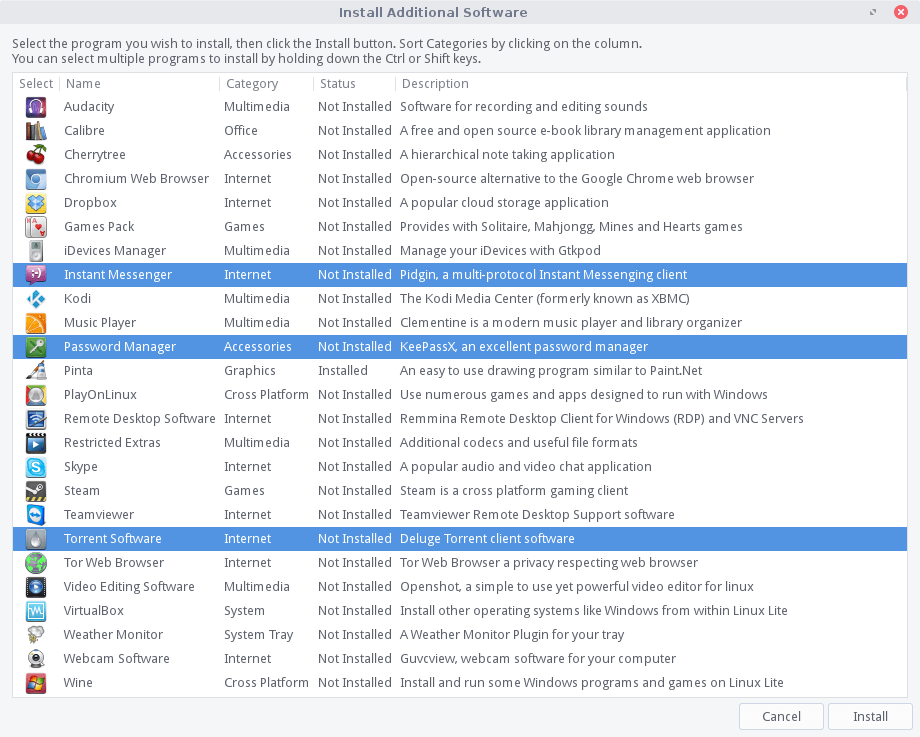
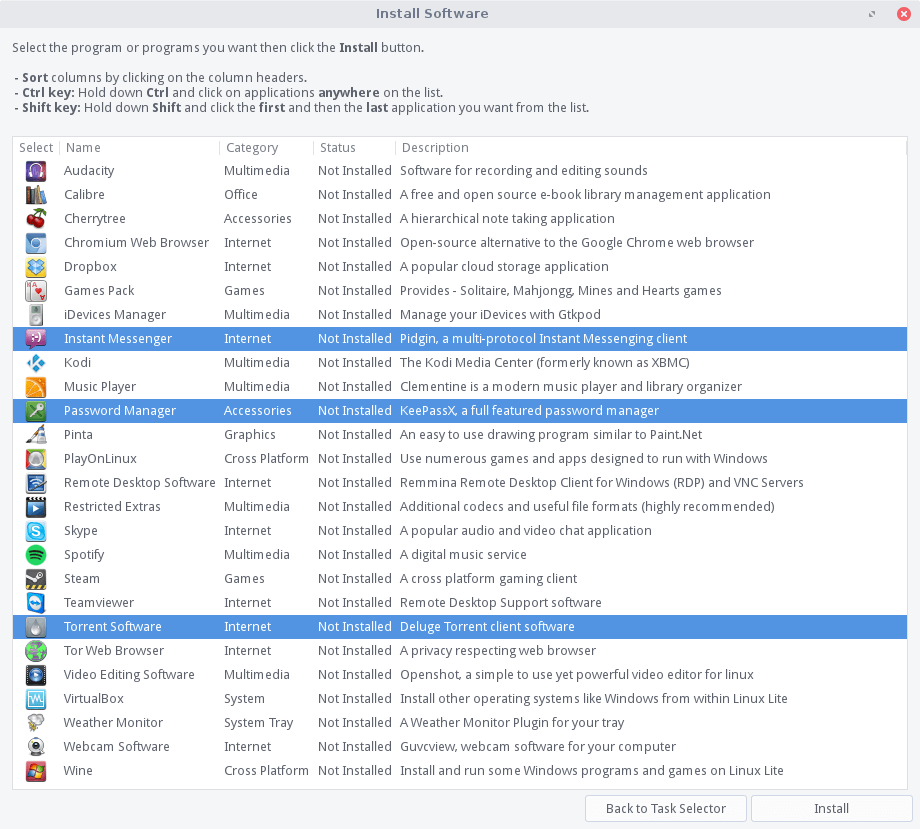
update Lite Software

Changed region(s): [[0.0, 0.0, 1.0, 0.9986], [0.9739, 0.0, 1.0, 0.0312], [0.5783, 0.0312, 0.6087, 0.0624]]

diff --git a/usr/share/doc/litemanual/software.html b/usr/share/doc/litemanual/software.html
@@ -260,7 +260,7 @@ i    {font-style: italic;}
 					<p>Enter your password and click <b>OK</b>.</p>
 					<p><img src="images/software/litesoftware/ls-password.png" /></p>
 
-					<p>Next you will be shown the <b>Update Sources</b> window, always answer <b>Yes</b>.</p>
+					<p>Next you will be shown the <b>Update Software Sources</b> window, click <b>Yes</b> to continue.</p>
 					<p><img src="images/software/litesoftware/update_sources.png" /></p>
 
 					<p>Sources will be updated:</p>
@@ -271,7 +271,7 @@ i    {font-style: italic;}
 
 					<p>Next, you'll see the following window pop up. Select each application by holding down the <b>Ctrl</b> key. You may
 					choose and install more than one package at a time if you like. In this example we'll choose to install, <b>Instant Messenger,
-					Password Manager</b> and <b>Torrent Software</b>.</p>
+					Password Manager</b> and <b>Torrent Software</b>. Next, click the <b>Install</b> button.</p>
 					<p><img src="images/software/litesoftware/install_add_sftwr-02.png" /></p>
 
 					<p>In the next dialog, you'll be shown which applications you've selected to install. Click <b>Yes</b> when ready.</p>
@@ -286,9 +286,9 @@ i    {font-style: italic;}
 					<p>When the install is complete, you will get a confirmation like the following.</p>
 					<p><img src="images/software/litesoftware/install-complete.png" /></p>
 
-					<p>The <b>Lite Software</b> window will reappear at the end in case you want to perform another task. If you have finished,
-					select <b>Exit</b> and click <b>OK</b> or simply click on <b>Quit</b>.</p>
-					<p><img src="images/software/litesoftware/lite-software-exit.png" /></p>
+					<p>The <b>Lite Software</b> window will reappear at the end in case you want to perform another task. If you have finished, 
+					click <b>Quit</b>.</p>
+					<p><img src="images/software/litesoftware/lite-software-select.png" /></p>
 
 					<p><a href="#top">Top of page</a></p>
 
@@ -309,9 +309,9 @@ i    {font-style: italic;}
 					<p>Once the sources have been updated, the following window will appear, select <b>Remove Software</b> and click <b>OK</b>.</p>
 					<p><img src="images/software/litesoftware/lite-software-select-remove.png" /></p>
 
-					<p>Next, you'll see the following window pop up. Select software to remove by placing a check mark in the box next to it. You may
-					choose and remove more than one package at a time if you like. In this example we'll choose to remove, <b>Instant Messenger</b>,
-					<b>Password Manager</b> and <b>Torrent Software</b>.</p>
+					<p>Next, you'll see the following window pop up. Select each application by holding down the <b>Ctrl</b> key. You may
+					choose to remove more than one package at a time if you like. In this example we'll choose to remove, <b>Instant Messenger,
+					Password Manager</b> and <b>Torrent Software</b>. Next, click the <b>Remove</b> button.</p>
 					<p><img src="images/software/litesoftware/remove_add_sftwr-02.png" /></p>
 
 					<p>In the next dialog, you'll be shown which applications you've selected to remove. Click <b>Yes</b> when ready.</p>
@@ -321,12 +321,12 @@ i    {font-style: italic;}
 					selected and the size of the program/s.</p>
 					<p><img src="images/software/litesoftware/remove_add_sftwr-04.png" /></p>
 
-					<p>When the removal process is complete, you will get a confirmation like the following.</p>
+					<p>When the removal process is complete, you will get a confirmation like the following. Click <b>OK</b>.</p>
 					<p><img src="images/software/litesoftware/remove_add_sftwr-05.png" /></p>
 
 					<p>The <b>Lite Software</b> window will reappear at the end in case you want to perform another task. If you have finished, select <b>Exit</b> and click <b>OK</b>
 					or simply click on <b>Quit</b>.</p>
-					<p><img src="images/software/litesoftware/lite-software-exit.png" /></p>
+					<p><img src="images/software/litesoftware/lite-software-select.png" /></p>
 
 					<p><a href="#top">Top of page</a></p>
 
